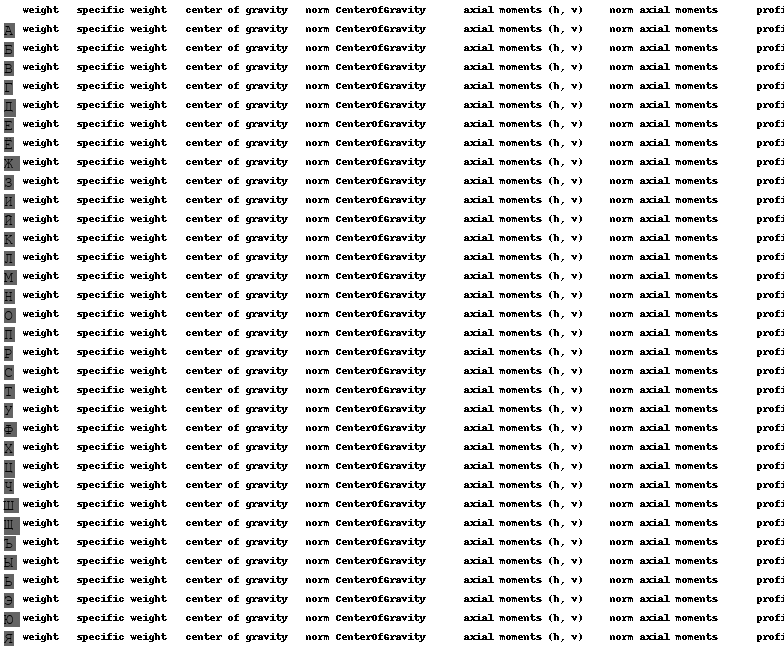
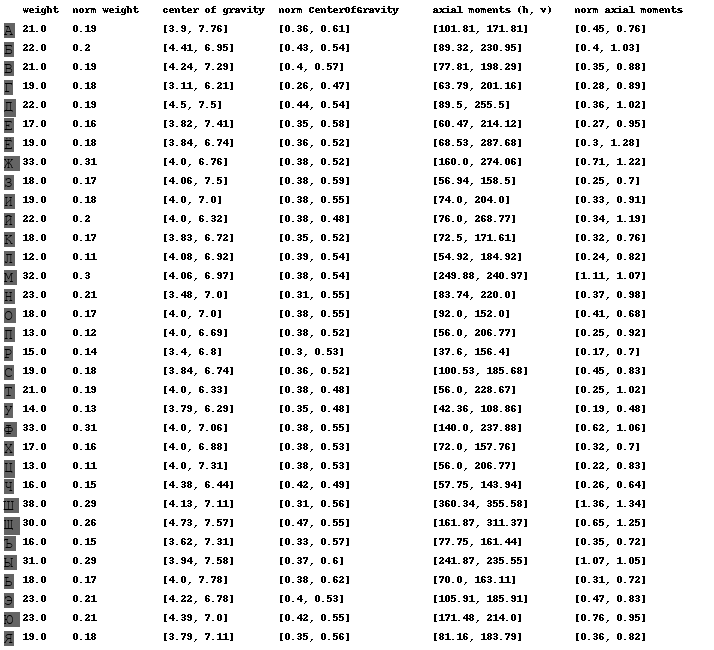
4 succeed

Changed region(s): [[0.0, 0.0, 0.5546, 1.0], [0.7703, 0.0, 1.0, 0.9846], [0.5854, 0.0, 0.7395, 0.9846]]

diff --git a/4lab/main.py b/4lab/main.py
@@ -9,25 +9,40 @@ import matplotlib.pyplot as plt
 from matplotlib.patches import Rectangle
 import numpy as np
 import pandas as pd
+from collections.abc import Iterable 
+
+
 
 alphabet = sys.argv[1]
 
 BLACK = (0,0,0)
 WHITE = (255,255,255)
+BLUE = (0,0,255)
+RED = (255,0,0)
 GREY = (100,100,100)
 Point_type = typing.Tuple[int, int]
 
-def pixel_gen(img:Image, start=None, end=None):
+def pixel_gen(img:Image, start=None, end=None, white_black=True):
     pix = img.load()
     if start is None:
         start = (0,0)
     if end is None:
         end = (img.size)
     for row in range(start[1], end[1]):
-        for col in range(start[0], end[1]):
+        for col in range(start[0], end[0]):
             pos = (col, row)
-            yield (pos, tuple(apply_func(pix, mask, pos)))
+            if white_black:
+                yield (pos, 0 if pix[pos][0] > WHITE[0]/2 else 1)
+            else:
+                yield (pos, pix[pos])
 
+
+def get_profile(img:Image):
+    res = [np.zeros(i) for i in img.size]
+    for pos, pix in pixel_gen(img, white_black=False):
+        res[0][pos[0]] += pix[0]/255
+        res[1][pos[1]] += 1-pix[0]/255
+    return res
 
 
 def out_size(fnt:ImageFont):
@@ -37,21 +52,61 @@ def out_size(fnt:ImageFont):
 def move_point(p0:Point_type, p1:Point_type):
     return tuple(i+j for i, j in zip(p0, p1))
 
+def get_moment(img:Image, p:int, q:int, x_c:int, y_c:int):
+    m = 0
+    for (x, y), pix in pixel_gen(img):
+        m += (x-x_c)**p * (y-y_c)**q * pix
+    return m
+
+
+def calc_weight(img:Image, _:pd.Series):
+    w = 0
+    for (x, y), pix in pixel_gen(img):
+        w += pix
+    return w
+
+def calc_norm_weight(img:Image, acc:pd.Series):
+    return acc[header_names[0][0]] / img.size[0] / img.size[1]
+
+def calc_center_of_gravity(img:Image, acc:pd.Series):
+    res = [0,0]
+    for idx, (p, q) in enumerate([(1, 0), (0, 1)]):
+        for (x, y), pix in pixel_gen(img):
+            res[idx] += x**p * y**q * pix
+    return tuple(i/acc[header_names[0][0]] for i in res)
+
+def calc_norm_center_of_gravity(img:Image, acc:pd.Series):
+    return tuple((pos-1)/(img.size[idx]-1) for idx, pos in enumerate(acc[header_names[2][0]]))
+
+def calc_axial_moments(img:Image, acc:pd.Series):
+    res = [0,0]
+    x_c, y_c = acc[header_names[2][0]]
+    for idx, (p, q) in enumerate([(2, 0), (0, 2)]):
+        res[idx] = get_moment(img, p=p, q=q, x_c=x_c, y_c=y_c)
+    return tuple(res)
+
+def calc_norm_axial_moments(img:Image, acc:pd.Series):
+    sub = sum(i**2 for i in img.size)
+    return tuple(i/sub for i in acc[header_names[4][0]])
+
+#def calc_profiles(img:Image, acc:pd.Series):
+    #return (0,0)
+
+header_names = (
+        ("weight",calc_weight), #0
+        ("norm weight",calc_norm_weight), #1
+        ("center of gravity",calc_center_of_gravity), #2
+        ("norm CenterOfGravity",calc_norm_center_of_gravity), #3
+        ("axial moments (h, v)",calc_axial_moments), #4
+        ("norm axial moments",calc_norm_axial_moments), #5
+        #("profiles",calc_profiles), #6
+        )
 
 def main():
     height = [12, 15, 30]
     fonts = ["dejavy/DejaVuSansCondensed.ttf", "freefont/FreeMono.ttf", "croscore/Arimo-Italic.ttf"]
 
     space = 4
-    header_names = (
-            ("weight",None), 
-            ("specific weight",None),
-            ("center of gravity",None),
-            ("norm CenterOfGravity",None),
-            ("axial moments (h, v)",None),
-            ("norm axial moments",None),
-            ("profiles",None),
-            )
 
     base_directory = "pics"
     if not os.path.exists(base_directory):
@@ -63,8 +118,10 @@ def main():
         fnt = ImageFont.truetype(f"/usr/share/fonts/truetype/{f}", h)
         base_fnt = ImageFont.truetype(f"/usr/share/fonts/truetype/{fonts[0]}", h)
 
+        data = pd.DataFrame({cl_name:[] for cl_name, _ in header_names})
+
         max_size_width = np.zeros(1+len(header_names))
-        for idx, char in enumerate(alphabet):
+        for idx, char in enumerate(progress.bar(alphabet)):
             char_size = fnt.getsize(char)
             if max_size_width[-1] < char_size[0]:
                 max_size_width[-1] = char_size[0]
@@ -73,13 +130,32 @@ def main():
             d.text((0,0), char, font=fnt, fill=BLACK)
             img.save(f'{directory}/{idx}_{char}.png')
 
+            row = pd.Series(name=char)
             for col, (col_name, func) in enumerate(header_names):
-                text_size = base_fnt.getsize(col_name)
-                if max_size_width[col] < text_size[0]:
-                    max_size_width[col] = text_size[0]
-            #calc
+                val = pd.Series({col_name:func(img, row)})
+                row = row.append(val)
+                text = str(np.round(val[col_name], 2))
+                text_size = max(base_fnt.getsize(col_name)[0], base_fnt.getsize(text)[0])
+                if max_size_width[col] < text_size:
+                    max_size_width[col] = text_size
+            row.name = char
+            data = data.append(row)
+
+            prof_img = img.copy()
+            prof_d = ImageDraw.Draw(prof_img)
+            prof_d.text((0,0), char, font=fnt, fill=BLACK)
+            x_prof, y_prof = get_profile(prof_img)
+            plt.gca().invert_yaxis()
+            plt.imshow(np.asarray(prof_img))
+            plt.plot(x_prof, label="x profile", color="red")
+            plt.plot(y_prof, range(y_prof.size), label="y profile", color="green")
+            plt.legend()
+            plt.savefig(f'{directory}/{idx}_{char}_profile.png')
+
 
             #
+        data.to_csv(f'{directory}/data_{h}.csv')
+        print(data)
 
         img_width = int(np.sum(max_size_width))+space*(max_size_width.size+1)
         res_img = Image.new('RGB', (img_width, (h+space)*(len(alphabet)+1)+space), color = WHITE)
@@ -98,7 +174,9 @@ def main():
             d_res.text(xy, char, font=fnt, fill=BLACK)
             offset = max_size_width[-1]+space+space
             for col, (col_name, _) in enumerate(header_names):
-                d_res.text(move_point(xy, (offset, 0)), col_name, fill=BLACK)
+                val = np.round(data[col_name][char], 2)
+                text = str(val.tolist())
+                d_res.text(move_point(xy, (offset, 0)), text, fill=BLACK)
                 offset += max_size_width[col]+space
 
         res_img.save(f'{directory}/all.png')
